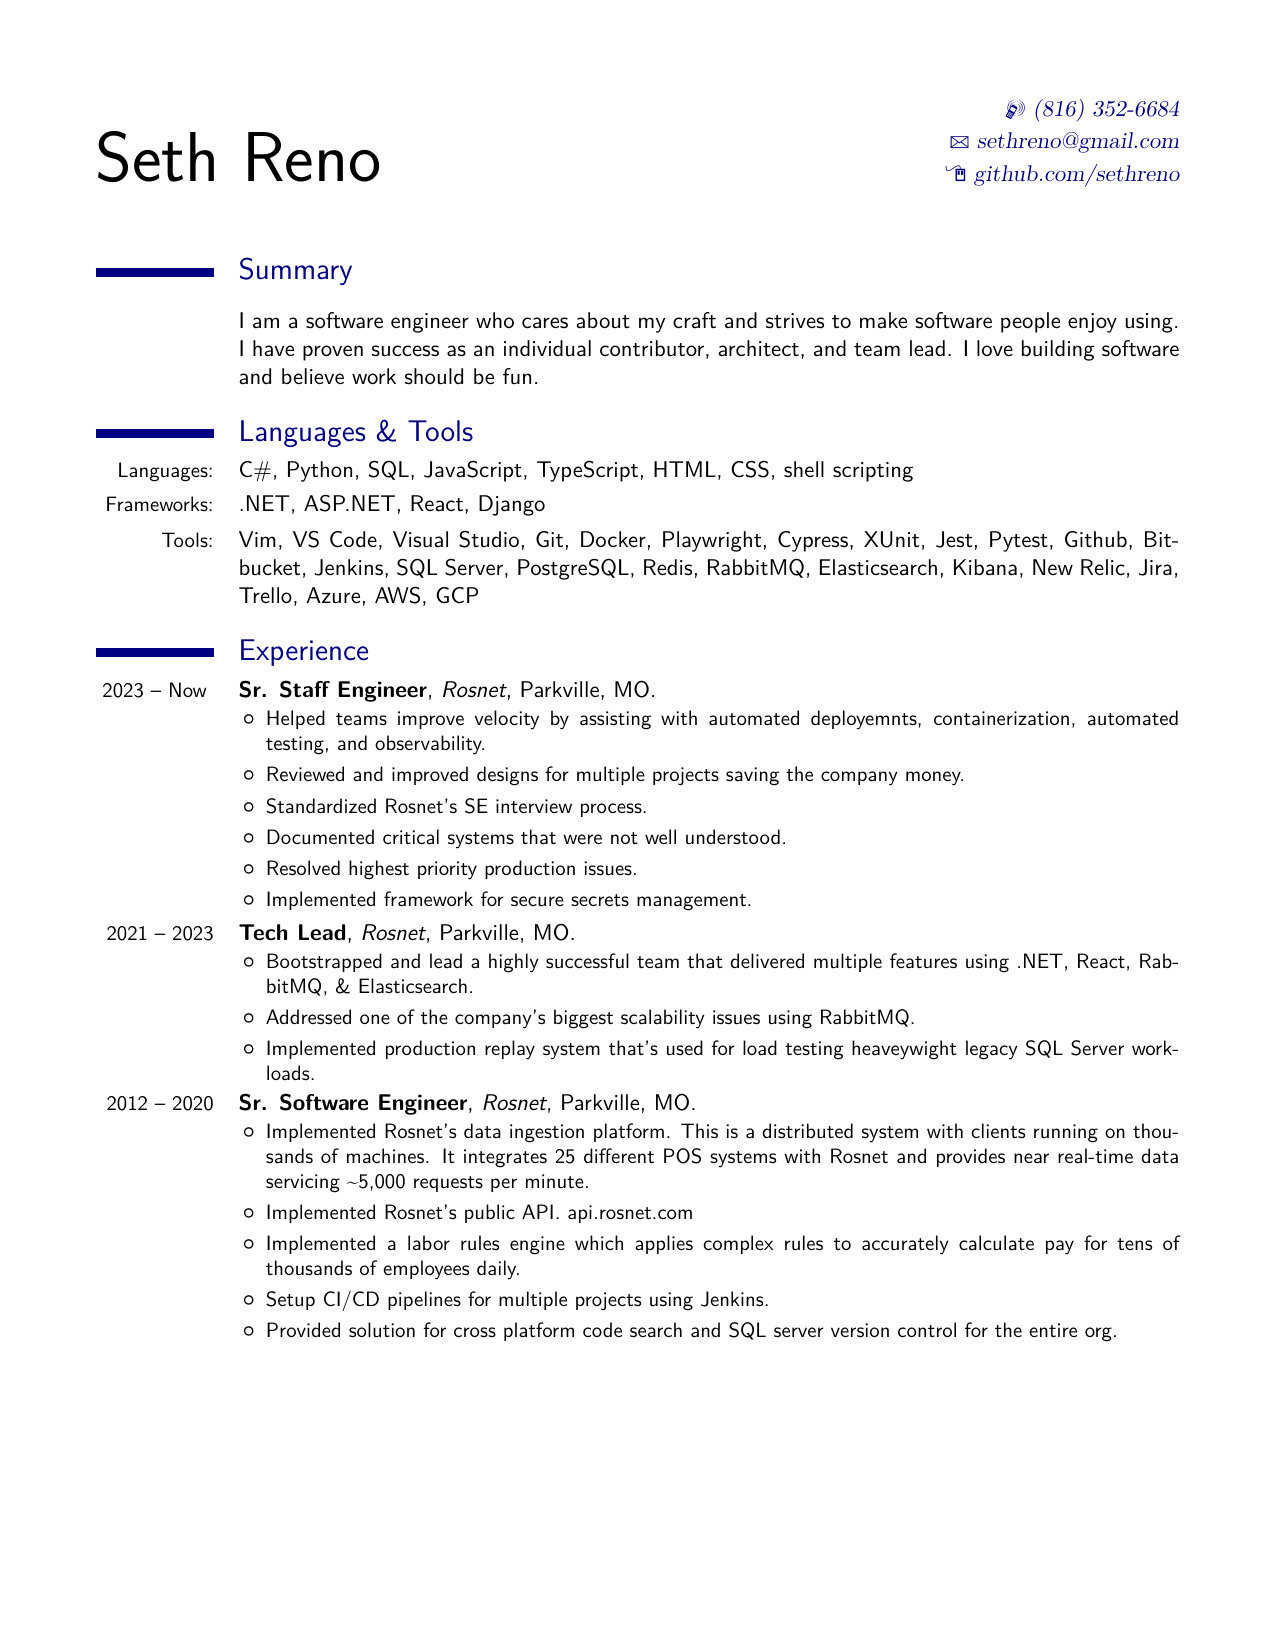
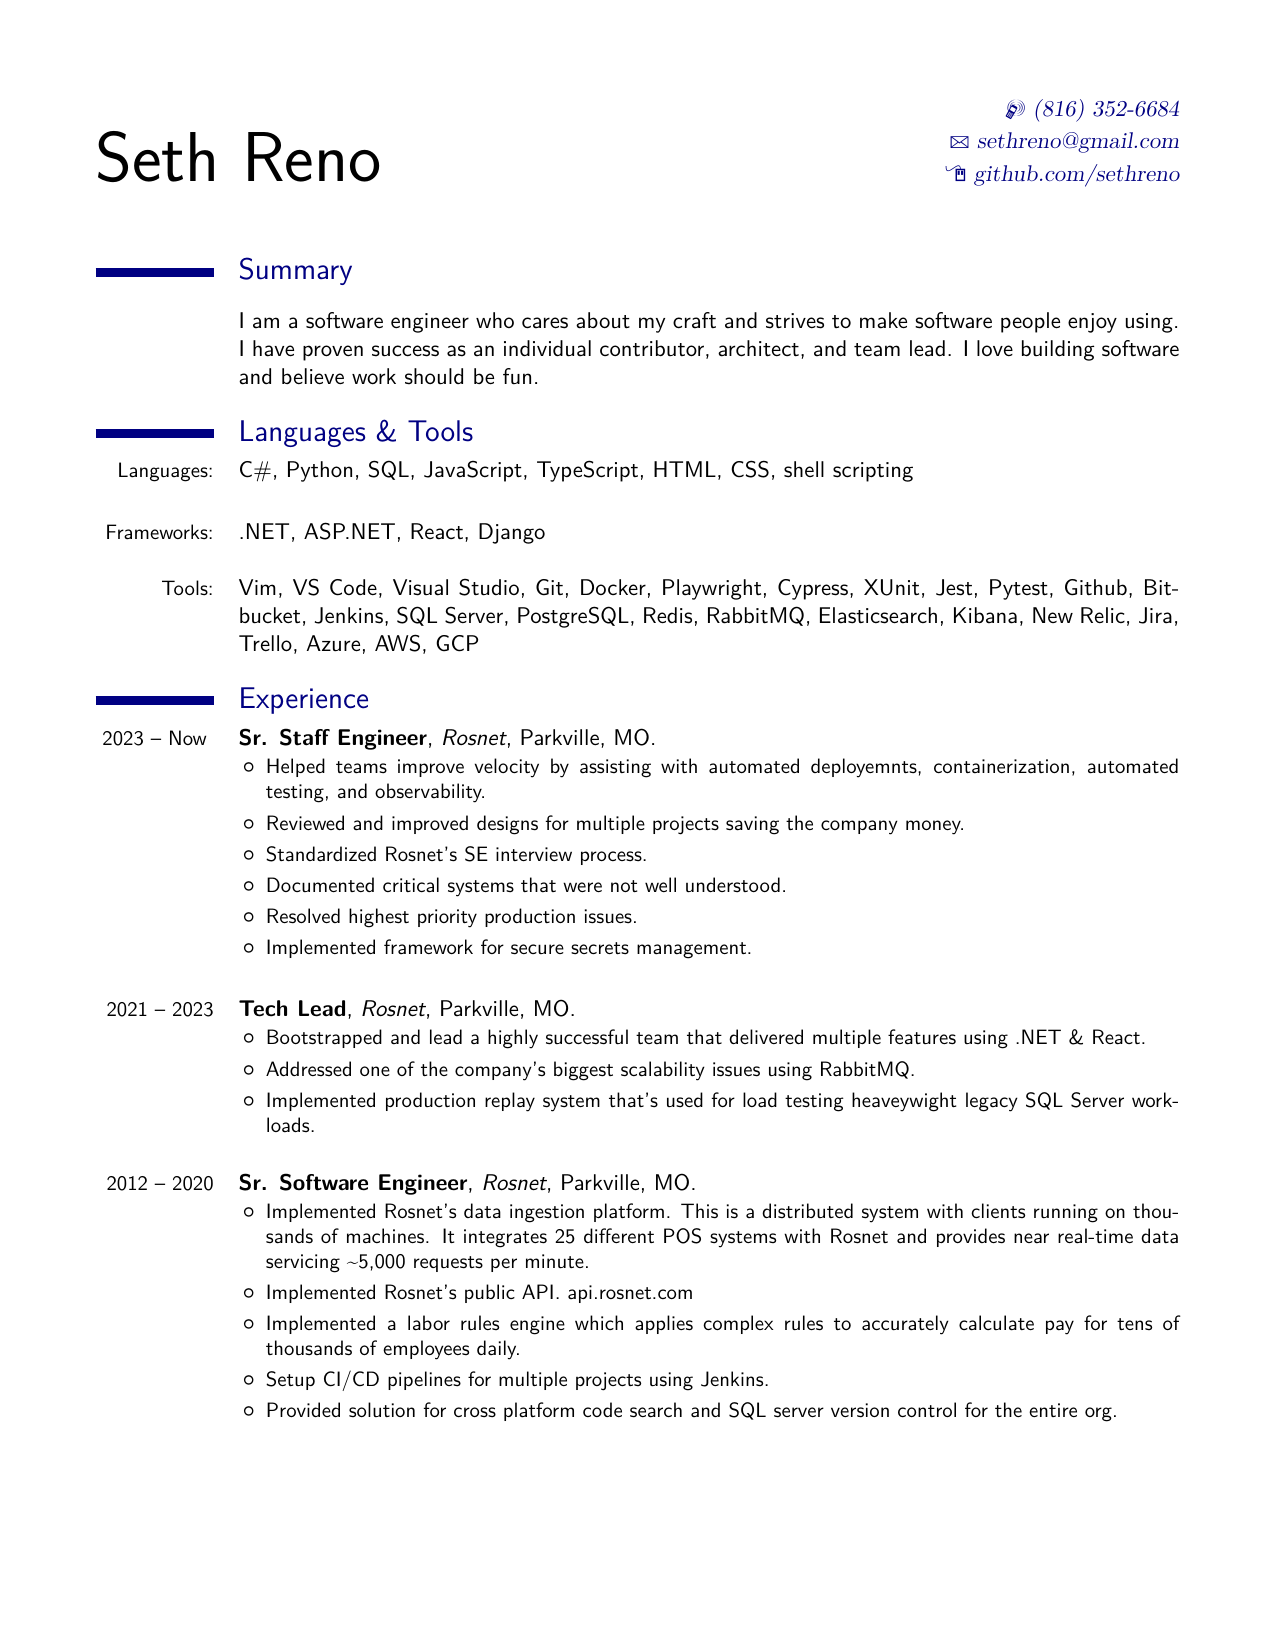
Add whitespace

diff --git a/src/resume.tex b/src/resume.tex
@@ -57,19 +57,21 @@ fun.
 
 \section{Languages \& Tools} 
 	\cvline {Languages:}
-{C\#, Python, SQL, JavaScript, TypeScript, HTML, CSS, shell scripting}
+		{C\#, Python, SQL, JavaScript, TypeScript, HTML, CSS, shell scripting}
+\linebreak
 	\cvline {Frameworks:}
-{.NET, ASP.NET, React, Django}
+		{.NET, ASP.NET, React, Django}
+\linebreak
 	\cvline {Tools:}
-{Vim, VS Code, Visual Studio, Git, Docker,
-Playwright, Cypress,
-XUnit, Jest, Pytest,
-Github, Bitbucket, Jenkins,
-SQL Server, PostgreSQL, Redis, RabbitMQ,
-Elasticsearch, Kibana, New Relic,
-Jira, Trello,
-Azure, AWS, GCP
-}
+		{ Vim, VS Code, Visual Studio, Git, Docker,
+			Playwright, Cypress,
+			XUnit, Jest, Pytest,
+			Github, Bitbucket, Jenkins,
+			SQL Server, PostgreSQL, Redis, RabbitMQ,
+			Elasticsearch, Kibana, New Relic,
+			Jira, Trello,
+			Azure, AWS, GCP
+		}
 
 \section{Experience} 
 	\cventry
@@ -91,13 +93,14 @@ Azure, AWS, GCP
 				Implemented framework for secure secrets management.
 		\end{itemize}
 }
+\linebreak
 
 	\cventry
 {2021 -- 2023} {Tech Lead}{Rosnet}{Parkville, MO}{}{
 		\begin{itemize}
 			\item
 				Bootstrapped and lead a highly successful team that delivered
-				multiple features using .NET, React, RabbitMQ, \& Elasticsearch.
+				multiple features using .NET \& React.
 			\item
 				Addressed one of the company's biggest scalability issues using
 				RabbitMQ.
@@ -106,6 +109,7 @@ Azure, AWS, GCP
 				testing heaveywight legacy SQL Server workloads.
 		\end{itemize}
 }
+\linebreak
 
 	\cventry
 {2012 -- 2020} {Sr. Software Engineer}{Rosnet}{Parkville, MO}{}{
@@ -129,6 +133,7 @@ Azure, AWS, GCP
 				version control for the entire org.
 		\end{itemize}
 }
+\linebreak
 
 	\cventry
 {2006 -- 2012} {Sr. Programmer Analyst}{Cameron Insurance Companies}{Cameron, MO}{}{
@@ -151,6 +156,8 @@ Azure, AWS, GCP
 				Implemented database version constrol for SQL Server.
 		\end{itemize}
 }
+\linebreak
+
 	\cventry
 {2005 -- 2006} {Programmer Analyst}{Cameron Insurance Companies}{Cameron, MO}{}{
 		\begin{itemize}
@@ -161,6 +168,8 @@ Azure, AWS, GCP
 				coordinates of each form field.
 		\end{itemize}
 }
+\linebreak
+
 	\cventry
 {2001 -- 2005}{Sr. System Administrator}{Shook, Hardy, \& Bacon}{Kansas City, MO}{}{
 		\begin{itemize}
@@ -180,6 +189,8 @@ Azure, AWS, GCP
 				Supabase, Python, scikit-learn, \& Cloudflare.
 		\end{itemize}
 }
+\linebreak
+
 	\cventry
 {2020 -- 2021} {Freelance}{ECS Geothermal}{}{}{
 		\begin{itemize}
@@ -188,6 +199,7 @@ Azure, AWS, GCP
 				\& AWS Postgres RDBMS.
 		\end{itemize}
 }
+\linebreak
 
 	\cventry
 {2019 -- 2022} {Open Source}{ReGitLint}{\httplink{github.com/sethreno/ReGitLint}}{57 stars}{
@@ -198,6 +210,7 @@ Azure, AWS, GCP
 				style.
 		\end{itemize}
 }
+\linebreak
 
 	\cventry
 {2009 -- Now } {Open Source}{Schema Zen}{\httplink{github.com/sethreno/schemazen}}{336 stars}{
@@ -218,6 +231,7 @@ Azure, AWS, GCP
 				framework has evolved.
 		\end{itemize}
 }
+\linebreak
 
 
 \section{Education} 
